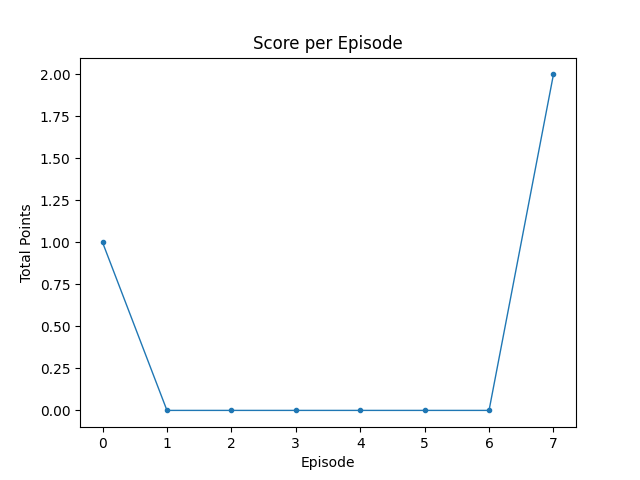
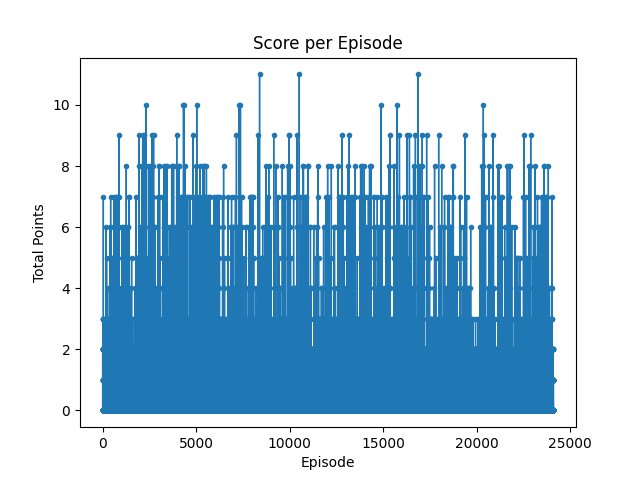
Parameters after training for 24k rounds

diff --git a/agent_code/Raiden/train.py b/agent_code/Raiden/train.py
@@ -13,7 +13,7 @@ from .model import QLearningAgent
 # Initialize variables for tracking training progress
 scores_per_round = []
 game_score_arr = []
-TOTAL_ROUNDS = 1000
+TOTAL_ROUNDS = 100000
 LINEAR_CONSTANT_QUOTIENT = 0.85
 EPSILON = (0.6, 0.2)
 
